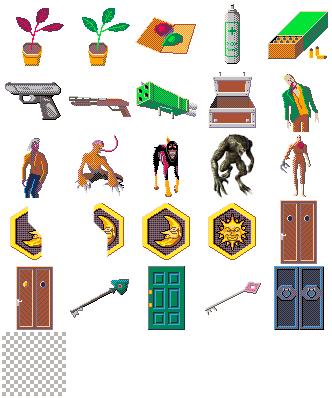
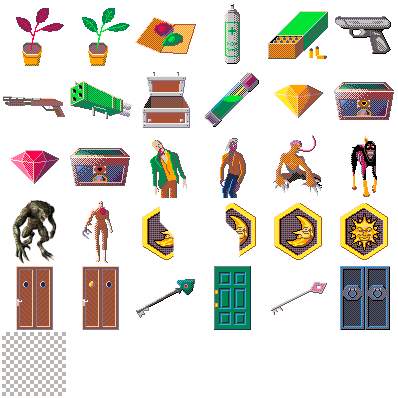
Add more illustrations

diff --git a/lib/include/game/enums/CardImage.hpp b/lib/include/game/enums/CardImage.hpp
@@ -11,6 +11,11 @@ enum class [[nodiscard]] CardImage
     Shotgun,
     RocketLauncher,
     Crate,
+    Vaccine,
+    YellowJewel,
+    YellowJewelBox,
+    RedJewel,
+    RedJewelBox,
     Zombie,
     CrimsonHead,
     Licker,
